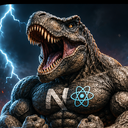
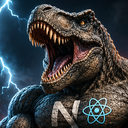
fix(devtools): tighten launcher crop to the head, drop the black top bar
The prior crop was zoomed out onto the chest and its top edge caught the source
icon's black border frame (a black bar along the top). Re-crop tighter and
lower (560x560+255+72 of app-image-2.png) so it frames just the head — snout
still fully inside the circle, no black frame, minimal neck.

Claude-Session: https://claude.ai/code/session_01Jrg6818FuXNx2Kdv2K7ybf

diff --git a/src/client/devtools-dino.ts b/src/client/devtools-dino.ts
@@ -1,9 +1,10 @@
 // The denext DevTools launcher icon — the denext mascot's head cropped from the app
 // icon (assets/app-image-2.png; the crop is saved losslessly as assets/devtools-dino.png
-// for reference). Framed with margin so the launcher's circular clip (in devtools-panel's
-// `launch` style) never crops the snout, and inlined here as an optimized JPEG data URI so
-// the dev-only panel stays self-contained: no extra request, and it loads under the strict
-// dev CSP (`img-src` already allows `data:`). Imported ONLY by devtools-panel.ts, so it is
-// DCE'd out of production bundles along with the rest of the dev tooling.
+// for reference). Framed tight on the head with just enough margin that the launcher's
+// circular clip (in devtools-panel's `launch` style) never crops the snout, and inlined
+// here as an optimized JPEG data URI so the dev-only panel stays self-contained: no extra
+// request, and it loads under the strict dev CSP (`img-src` already allows `data:`).
+// Imported ONLY by devtools-panel.ts, so it is DCE'd out of production bundles along with
+// the rest of the dev tooling.
 export const DINO_ICON =
[2 lines of base64/hex data omitted]
